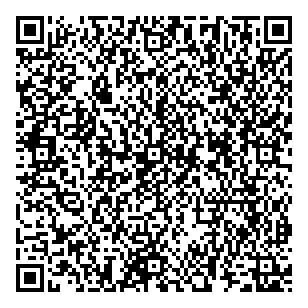
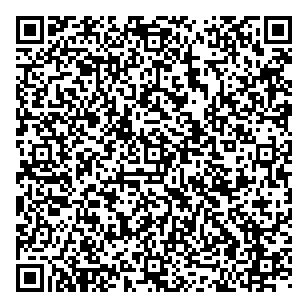
Added some additional serializations to compare.

diff --git a/test45.js b/test45.js
@@ -128,6 +128,10 @@ Object.keys(msgs).forEach( async (msgname) => {
     console.log("Based 45 encoding of CBOR: " + b45str)
     console.log("  Length: " + b45str.length)
 
+    let b32str = base32.encode(cbrstr).toUpperCase()
+    console.log("Based 32 encoding of CBOR: " + b32str)
+    console.log("  Length: " + b32str.length)
+
     let jwsstr = jws.sign( { 
       header: { alg: 'ES256' },
       payload: msg,
@@ -165,15 +169,18 @@ IwT8wck/ahwIRdyWBEqCZ7gdy3Gg8MADTQ==
     let cosestr =  cosebuf.toString('hex')
     // MUST DO toUpperCase() so QR will use alphanumeric
     let cose32 = base32.encode(cosebuf).toUpperCase()
+    let cose45 = base45.encode(cosebuf)
 
 
     let serializations = {
 	'json' : str,
 	'condensed' : condStr,
 	'cbor_b45' : b45str,
+	'cbor_b32' : b32str,
 	'jwt' : jwtstr,
 	'cose' : cosestr,
 	'cose32' : cose32,
+	'cose45' : cose45,
   'jws' : jwsstr,
   //'jwscbr' : jwscbr
     }
